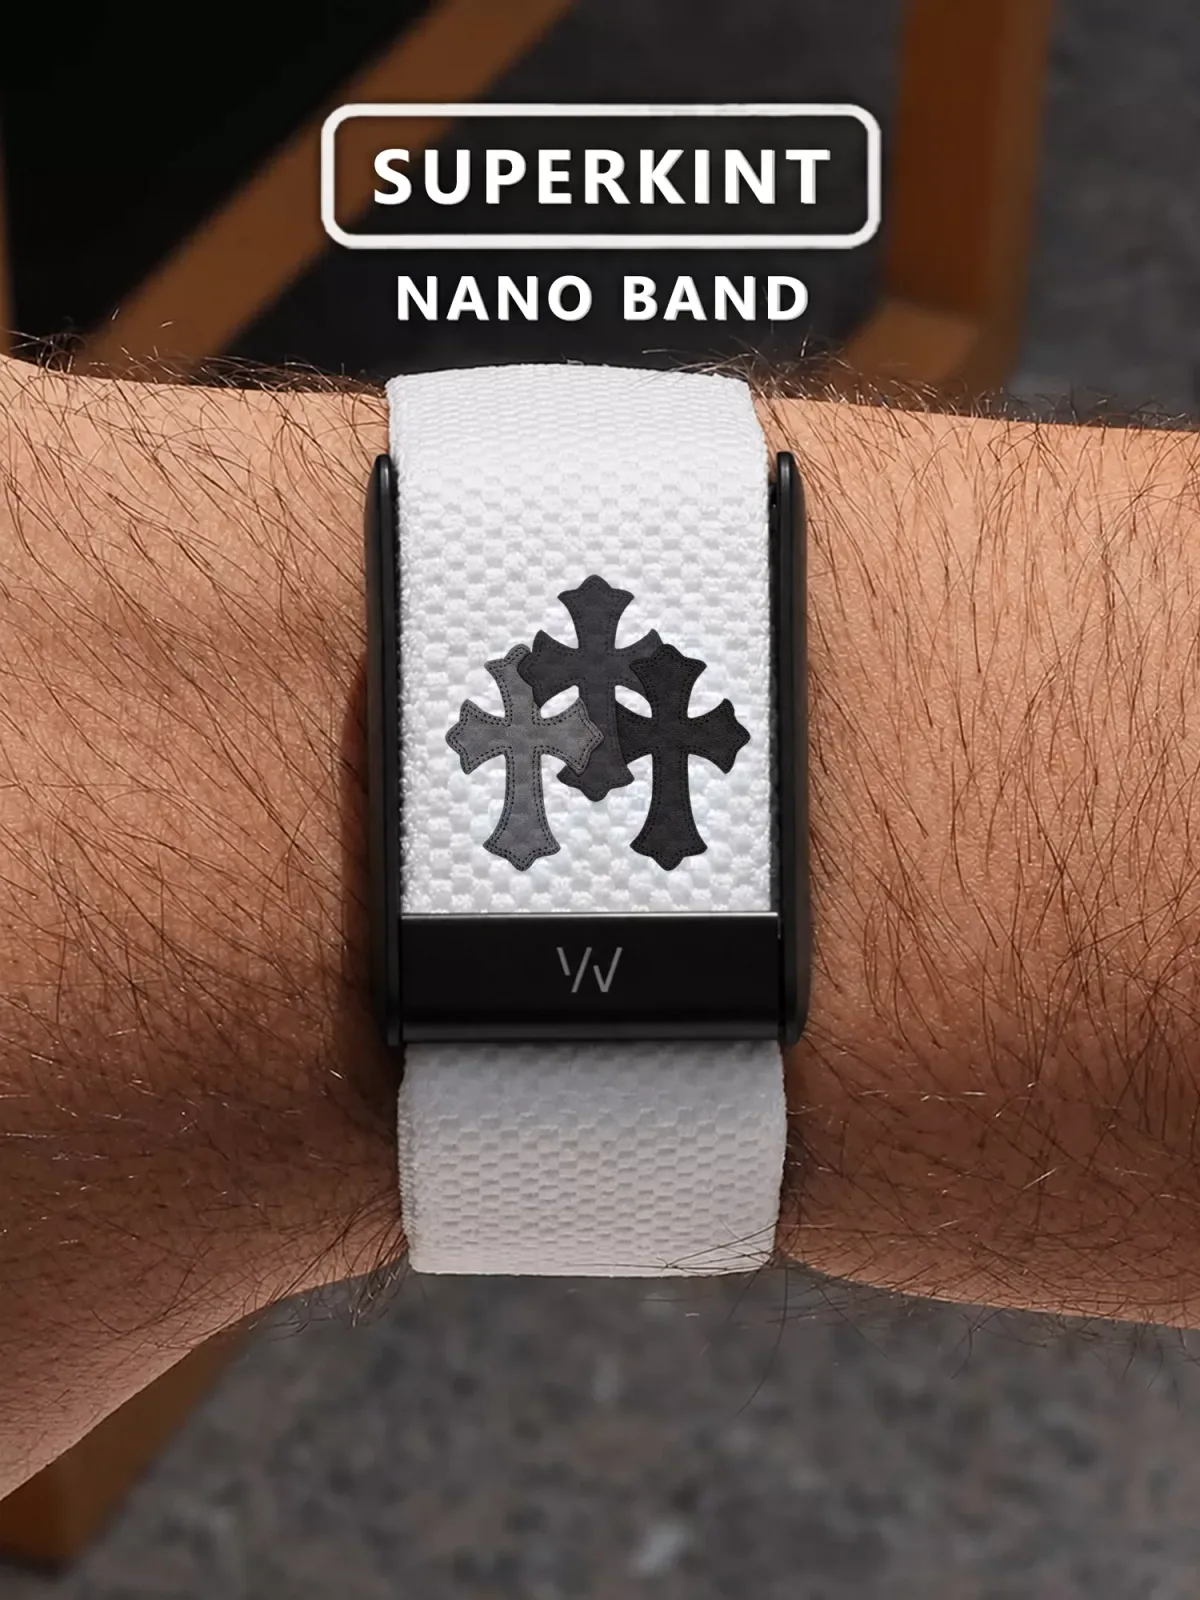
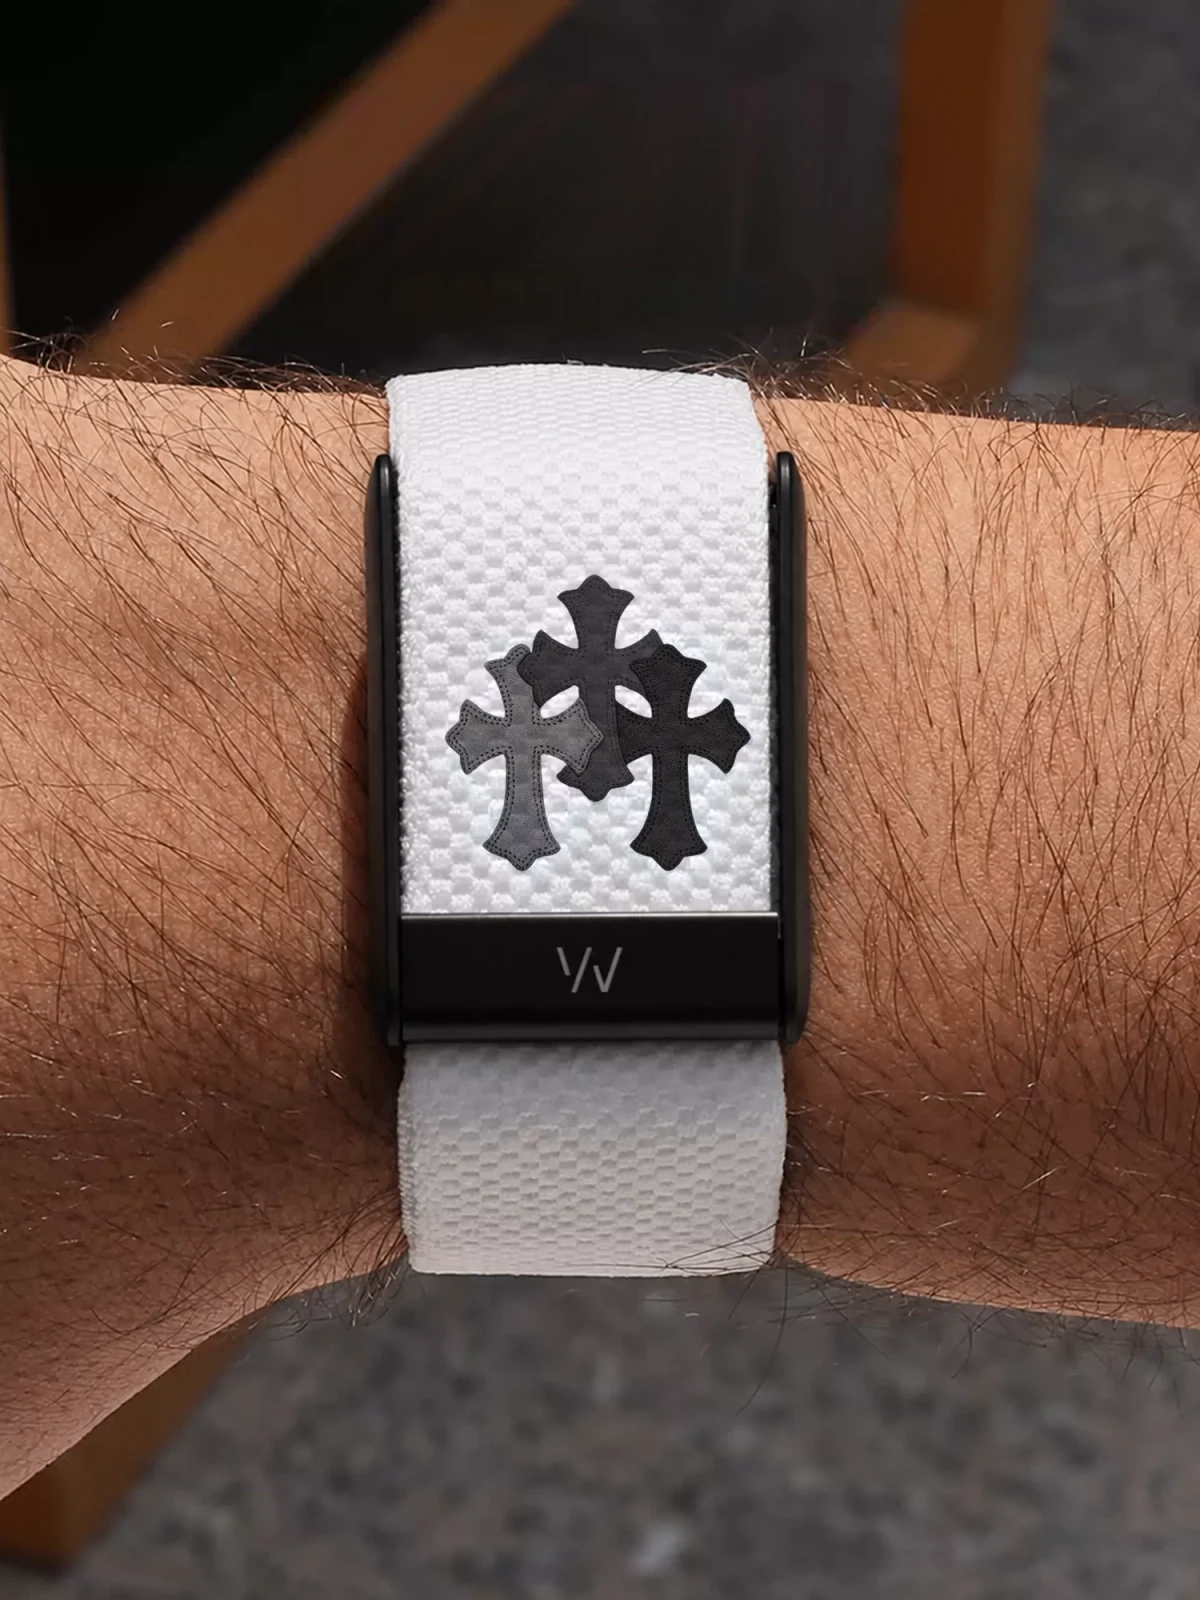
Fotos sem a marca do fornecedor e nomes de produto corrigidos
Troca de 14 fotos de galeria pelas versoes sem o selo SUPERKINT / NANO BAND.
Cada arquivo foi casado com o destino comparando o conteudo da imagem, nao o
nome. Tres foram reduzidas de 1500x2000 para 1200x1600, o tamanho que o site
usa. As versoes antigas ficaram fora do repositorio, em site-fotos-antigas.

Corrige oito nomes de produto que vieram errados do nome da pasta de fotos.
Cada um foi conferido contra o que esta impresso na propria pulseira:
FELL virou FEEL, POTENCIAL virou POTENTIAL, EVERYTHINK virou EVERYTHING,
PORCHE virou PORSCHE em dois produtos, DONT ganhou apostrofo, GODS PLAN
ganhou apostrofo e o acento agudo de I M ALREADY LATE virou apostrofo.

As correcoes ficaram em src/data/products.js, e nao no catalogo, porque o
catalogo e regravado inteiro pelo script que importa as fotos. Os ids seguem
com a grafia antiga de proposito: eles sustentam o endereco das paginas, as
pastas de fotos e o carrinho salvo.

Changed region(s): [[0.2467, 0.0625, 0.74, 0.2188]]

diff --git a/src/data/products.js b/src/data/products.js
@@ -17,7 +17,19 @@ export const WHOOP_MODELS = [
 
 // Gerado por scripts/import-products.mjs a partir das pastas de fotos.
 // Descrição e preço por produto podem ser adicionados aqui depois, pelo id.
-const OVERRIDES = {}
+//
+// Os nomes abaixo corrigem erros de digitação que vieram do nome da pasta de fotos.
+// Cada um foi conferido contra o que está impresso na própria pulseira.
+// As chaves continuam com a grafia errada de propósito: são os ids, e mudá-los
+// quebraria o endereço da página, a pasta das fotos e o carrinho já salvo.
+const OVERRIDES = {
+  'i-fell-like-pablo': { name: 'I FEEL LIKE PABLO' },
+  'my-only-competition-is-my-potencial': { name: 'MY ONLY COMPETITION IS MY POTENTIAL' },
+  'need-money-for-everythink': { name: 'NEED MONEY FOR EVERYTHING' },
+  'need-money-for-porche': { name: 'NEED MONEY FOR PORSCHE' },
+  'no-risk-no-porche-azul': { name: 'NO RISK NO PORSCHE AZUL' },
+  'sorry-i-dont-care': { name: "SORRY I DON'T CARE" },
+}
 
 // Acabamentos que não aparecem no site, por produto (id). As fotos continuam na pasta.
 const HIDDEN_FINISHES = {
@@ -26,8 +38,15 @@ const HIDDEN_FINISHES = {
 
 // Trocas aplicadas só no que o site mostra (nomes de produtos e de coleções).
 // As pastas de fotos, os ids e os endereços das páginas continuam iguais.
-const WHO_CARES = 'WHO CARES I´M ALREADY LATE'
-const displayName = (name) => name.replace(/FUCK/gi, 'F*CK').replace(/ROLEX/gi, WHO_CARES)
+const WHO_CARES = "WHO CARES I'M ALREADY LATE"
+const displayName = (name) => name
+  .replace(/FUCK/gi, 'F*CK')
+  .replace(/ROLEX/gi, WHO_CARES)
+  // A pulseira traz GOD'S PLAN com apóstrofo. As duas formas cobrem o nome do
+  // produto (maiúsculas) e o rótulo da coleção, que precisam continuar iguais
+  // para o filtro de coleções seguir casando.
+  .replace(/GODS PLAN/g, "GOD'S PLAN")
+  .replace(/Gods Plan/g, "God's Plan")
 
 // Produtos que viram um só, com os fechos de cada parte como opções. Ordem dos fechos segue a lista.
 // Endereços antigos das partes continuam funcionando e abrem o produto unido.
